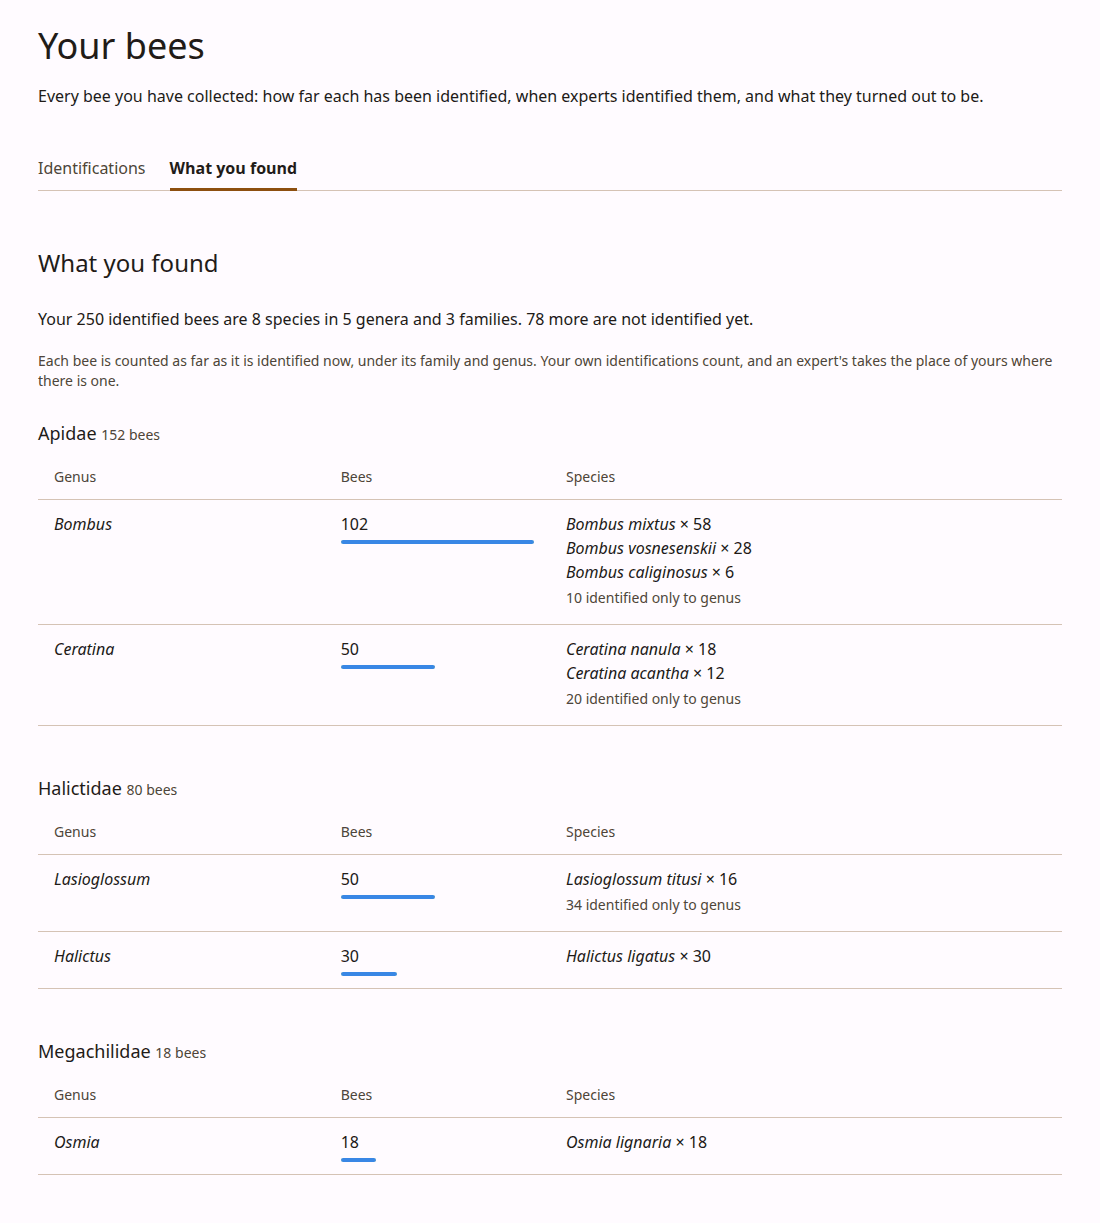
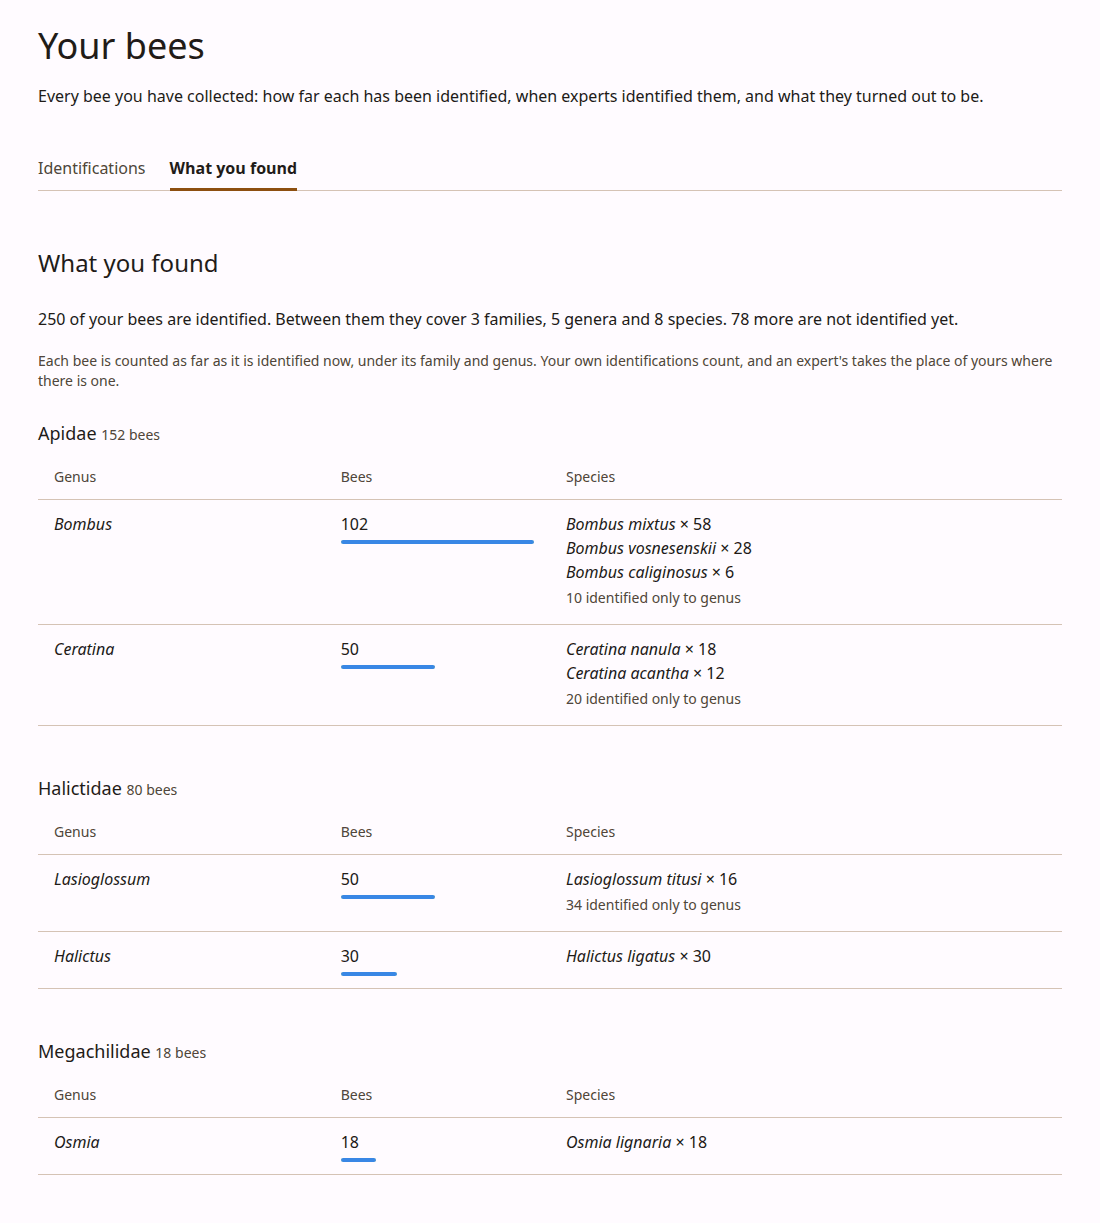
Say how many bees are identified and the taxa they cover, as separate claims
From the CodeRabbit review: "Your 1 identified bee is 0 species" equated a
count of bees with a count of species, which a bee named only to genus
breaks. The summary now says how many are identified, then which families,
genera and species they cover, with "no species yet" for none.

Changed region(s): [[0.0309, 0.2486, 0.8655, 0.2796]]

diff --git a/src/app/messages/en.ts b/src/app/messages/en.ts
@@ -2575,8 +2575,11 @@ export const en = {
     found: {
       title: "What you found",
       heading: "What you found",
+      /** How many bees are identified, and the taxa they cover: separate claims, since a bee named only to genus adds a genus and no species. */
       summary: (identified: number, species: number, genera: number, families: number) =>
-        `Your ${n(identified)} identified ${identified === 1 ? "bee is" : "bees are"} ${n(species)} species in ${n(genera)} ${genera === 1 ? "genus" : "genera"} and ${n(families)} ${families === 1 ? "family" : "families"}.`,
+        `${n(identified)} of your bees ${identified === 1 ? "is" : "are"} identified. ` +
+        `${identified === 1 ? "It covers" : "Between them they cover"} ${n(families)} ${families === 1 ? "family" : "families"}, ` +
+        `${n(genera)} ${genera === 1 ? "genus" : "genera"} and ${species === 0 ? "no species yet" : `${n(species)} species`}.`,
       notYet: (count: number) => `${n(count)} more ${count === 1 ? "is" : "are"} not identified yet.`,
       intro:
         "Each bee is counted as far as it is identified now, under its family and genus. Your own identifications count, and an expert's takes the place of yours where there is one.",
